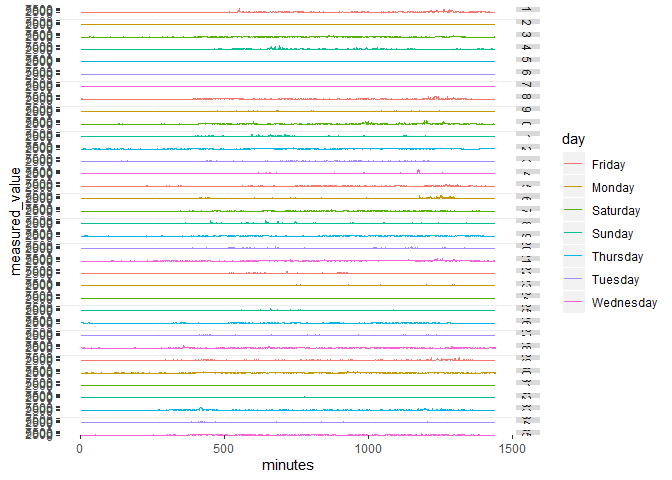
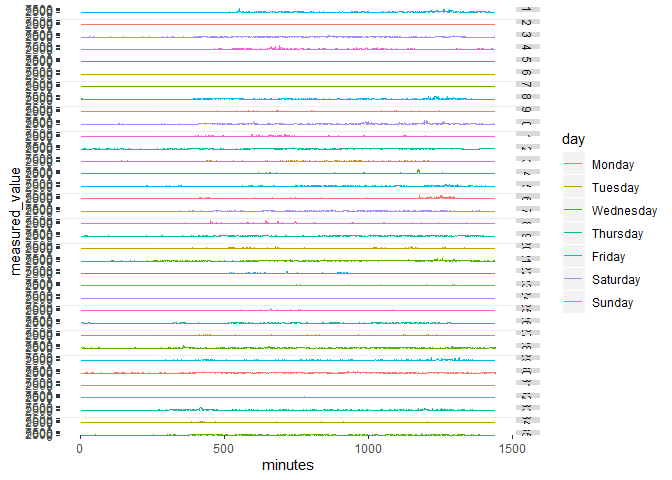
modify the order of weekday dispaly

diff --git a/p8105_hw3_yh2736.md b/p8105_hw3_yh2736.md
@@ -365,6 +365,23 @@ In 2002, there are 36 states which observed 7 or more loactions. In
     ##  9     1      1 Friday weekday                  9           55.5
     ## 10     1      1 Friday weekday                 10           43.0
 
+    ## [1] 50400
+
+In the acclerometer dataset, the study participant’ physical activity
+were measured repeatedly at each minute and recorded as a wide format.
+Using pivot\_longer command, the wide format was transformed to the long
+format.I have also created a new variable “weekday\_or\_weekend” to
+categorize the day of measurement occuring at the weekday (from Monday
+to Friday) or the weekend (Satuday or Sunday). The final tidy dataset
+includes the week of measurement (week), the day sequence of measurement
+(day\_id), day of the week )day), the categorized weekday or weekend
+described above (weeksay\_or\_weekend), minutes of measurement (minutes)
+and the value at each measurement (measurement). Through this data
+wrangling process, the final long foramt of the data is more readable
+that the previous wide format. The original wide dataset includes 35
+observations, and the final long dataset includes 50400 observations
+(=5*7*24\*60).
+
 ## Total activity of each day
 
 | week | day\_id | day\_activity |
@@ -407,10 +424,20 @@ In 2002, there are 36 states which observed 7 or more loactions. In
 
 Total activity of each day
 
+In the table, we can see the summarized activities by day, but it is
+hard to tell the trend through eye-balling the absolute numbers.
+
 ## Daily activity trency
 
-![](p8105_hw3_yh2736_files/figure-gfm/unnamed-chunk-13-1.png)<!-- -->
+![](p8105_hw3_yh2736_files/figure-gfm/unnamed-chunk-13-1.png)<!-- --> In
+the plot, the trend of daily activity is at a relatively higher level at
+the first three weeks except to the value at the second day as an
+outlier, compared to the value at fourth and fifth weeks.
 
 ## A plot to show daily activity for each day
 
 ![](p8105_hw3_yh2736_files/figure-gfm/unnamed-chunk-14-1.png)<!-- -->
+
+In this plot of measured values by minutes, we can find that the
+patient’s physicial activity mains at a stable level on weekends
+(Saturday and Sunday), but fluntuates on weekdays from Monday to Friday.
